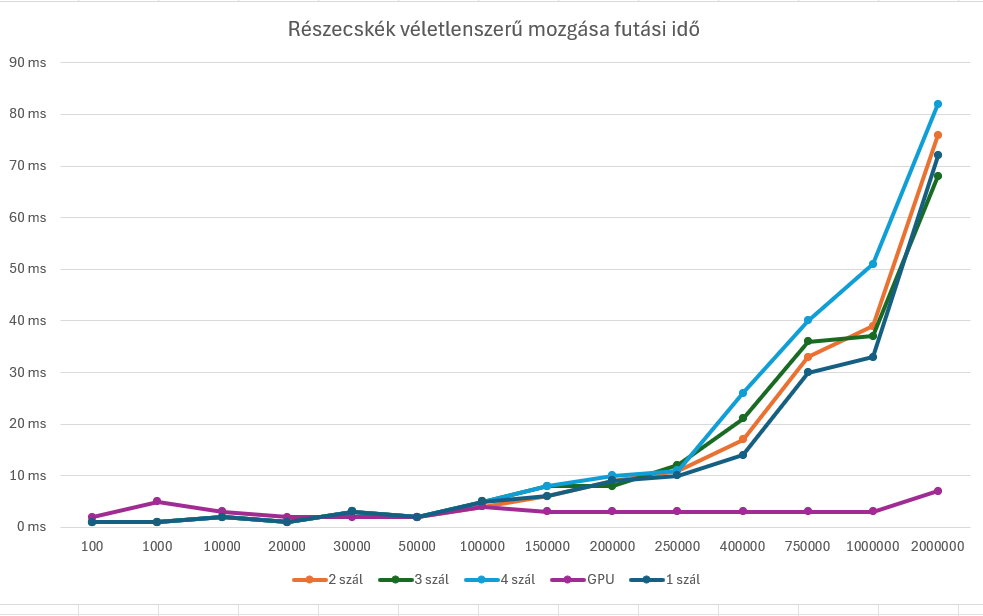
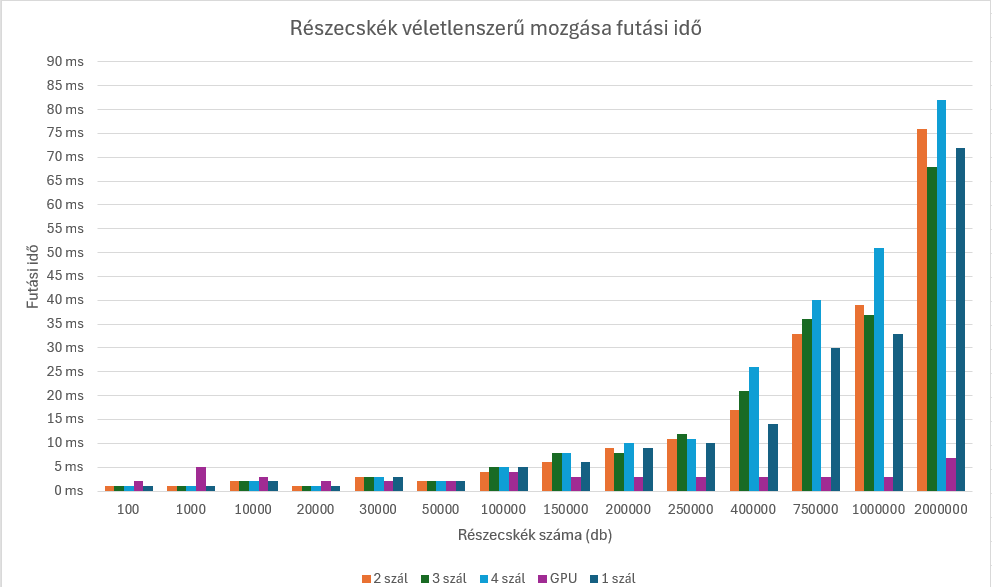
fixing graph

diff --git a/readme.md b/readme.md
@@ -7,12 +7,12 @@
 A program futtatásához szükséges az OpenCL SDK. A makefile-ban lévő gcc fordító elérési útvonalát szükséges átírni a saját gcc fordító útvonalára. A *make* parancs kiadásával hozható létre a futtatható állomány. Futtatáshoz használjuk a *.\main.exe <szálak_száma> <részecskék_száma>* parancsot.
 
 ## Feladat leírása
-A féléves beadandó feladatom témája a részecskék véletlenszerű mozgása köré épül. <br/>
-A probléma méretét a részecskék száma határozza meg, ez a program belépési pontjában van definiálva:
+A féléves beadandó feladatom témája a részecskék véletlenszerű mozgása köré épül.
+A probléma méretét a részecskék száma határozza meg, ez a main.c fájlban van definiálva:
 
 ```#define NUM_PARTICLES 1000000```
 
-Ezenkívül meg van határozva a DT változó, ami az idő differenciát kívánja szimulálni. Ez a konstans a mozgáshoz szükséges, mivel egy fizikai szimulációról van szó. Ez egy szorzóként szolgál a részecske sebességének kiszámításában.
+Ezenkívül meg van határozva a `DT` változó, ami az idő differenciát kívánja szimulálni. Ez a konstans a mozgáshoz szükséges, mivel egy fizikai szimulációról van szó. Ez egy szorzóként szolgál a részecske sebességének kiszámításában.
 
 ``` const float DT = 1.2f; ```
 
@@ -27,7 +27,7 @@ A véletlenszerű számok tömbjének a deklarálása is itt történik meg, ami
 A belépési ponton két függvény hívása történik meg, az egyik a CPU-n hajtja végre a részecske mozgatást, a másik a GPU-n. A CPU hívó függvény egyik paramétere a szálak száma, ennek a számnak a változtatásával növelhető vagy csökkenthető a CPU futási ideje.
 
 ## CPU végrehajtás
-Legelőször szétosztásra kerül a szálak között a probléma mérete, ezáltal a részecskék bizonyos részének pozícióját és sebességét számítja 1-1 szál. A CPU futási időt a clock() függvény valósítja meg, ami az éppen aktuális CPU időt kéri le. A szálak létrehozásánál kéri le a CPU időt, ez lesz a kiindulási idő, majd a szálak befejezésekor kéri le újra a CPU időt, ez lesz a befejezési idő. Ezeket kivonva kapjuk meg a futási időt ms-ben.
+Legelőször szétosztásra kerül a szálak között a probléma mérete, ezáltal a részecskék bizonyos részének pozícióját és sebességét számítja 1-1 szál. A CPU futási időt a `clock()` függvény valósítja meg, ami az éppen aktuális CPU időt kéri le. A szálak létrehozásánál kéri le a CPU időt, ez lesz a kiindulási idő, majd a szálak befejezésekor kéri le újra a CPU időt, ez lesz a befejezési idő. Ezeket kivonva kapjuk meg a futási időt ms-ben.
 
 ## GPU végrehajtás
 GPU végrehajtás esetén először inicializálásra kerül a részecske és a véletlenszerű szám buffer, amelyet a kernel fog felhasználni. Ezt követően a kernel-be arugmentumokként vannak megadva a különböző számításhoz szükséges számok. Ezen számok nagy része véletlenszerű. Ezt azért szükséges arugmentumként átadni, mivel az OpenCL-ben nem vagy csak nagyon nehezen lehet véletlenszerű számot generálni. Definiálásra kerül továbbá a GPU magok száma. Ezt követően elindul a GPU-n a számítás, aminek futási idejét profilozással lehet mérni. A profilozás ns-ben méri az időt, amit 10^6-al elosztva kapjuk meg a futási időt ms-ben.
@@ -37,5 +37,5 @@ GPU végrehajtás esetén először inicializálásra kerül a részecske és a 
 A program futási ideje a következőképp alakul:
 <img src="semester_task/diagram.png">
 
-Látható, hogy a GPU-n végrehajtott műveletek közel konstans idővel futnak az összes teszt során, ezzel szemben a CPU-n végzett tesztek futási ideje növekedést mutat, nagyon magas részecskeszámnál pedig hátrányt mutat a párhuzamosítás.
-
+Látható, hogy a GPU-n végrehajtott műveletek közel konstans idővel futnak az összes teszt során, ezzel szemben a CPU-n végzett tesztek futási ideje növekedést mutat.
+Kis részecskeszámnál a GPU-n végzett műveletek lassabbak, mint a CPU-n végzettek, például 1000 részecskénél GPU-n 5 ms alatt fut le a művelet, míg CPU-n 1 ms alatt. Az ábrán látszik, hogy 50000 részecskénél egyenlő idő alatt futnak le a műveletek mind a két hardveren, pontosan 2 ms alatt, tehát ez a mintaszám tekinthető a választóvonalnak. Az ettől nagyobb részecskeszámoknál látványosan gyorsabb a GPU végrehajtás, mint a CPU végrehajtás. Például 150000 részecskénél már 6-8 ms között változik a CPU futási ideje, még a GPU futási ideje 3 ms. Ezt követően látszik, hogy a GPU tartja a 3 ms-es futási időt teljesen 2000000 részecskeszámig, ahol a CPU idő is és a GPU idő is duplájára nő. Igaz, ezek a futási idő különbségek nagyon kicsik, de ez a feladat csak egy leegyszerűsített példa volt arra, hogy a GPU mennyivel gyorsabb a CPU-nál párhuzamos számítások és nagy adatmennyiségek esetén.
